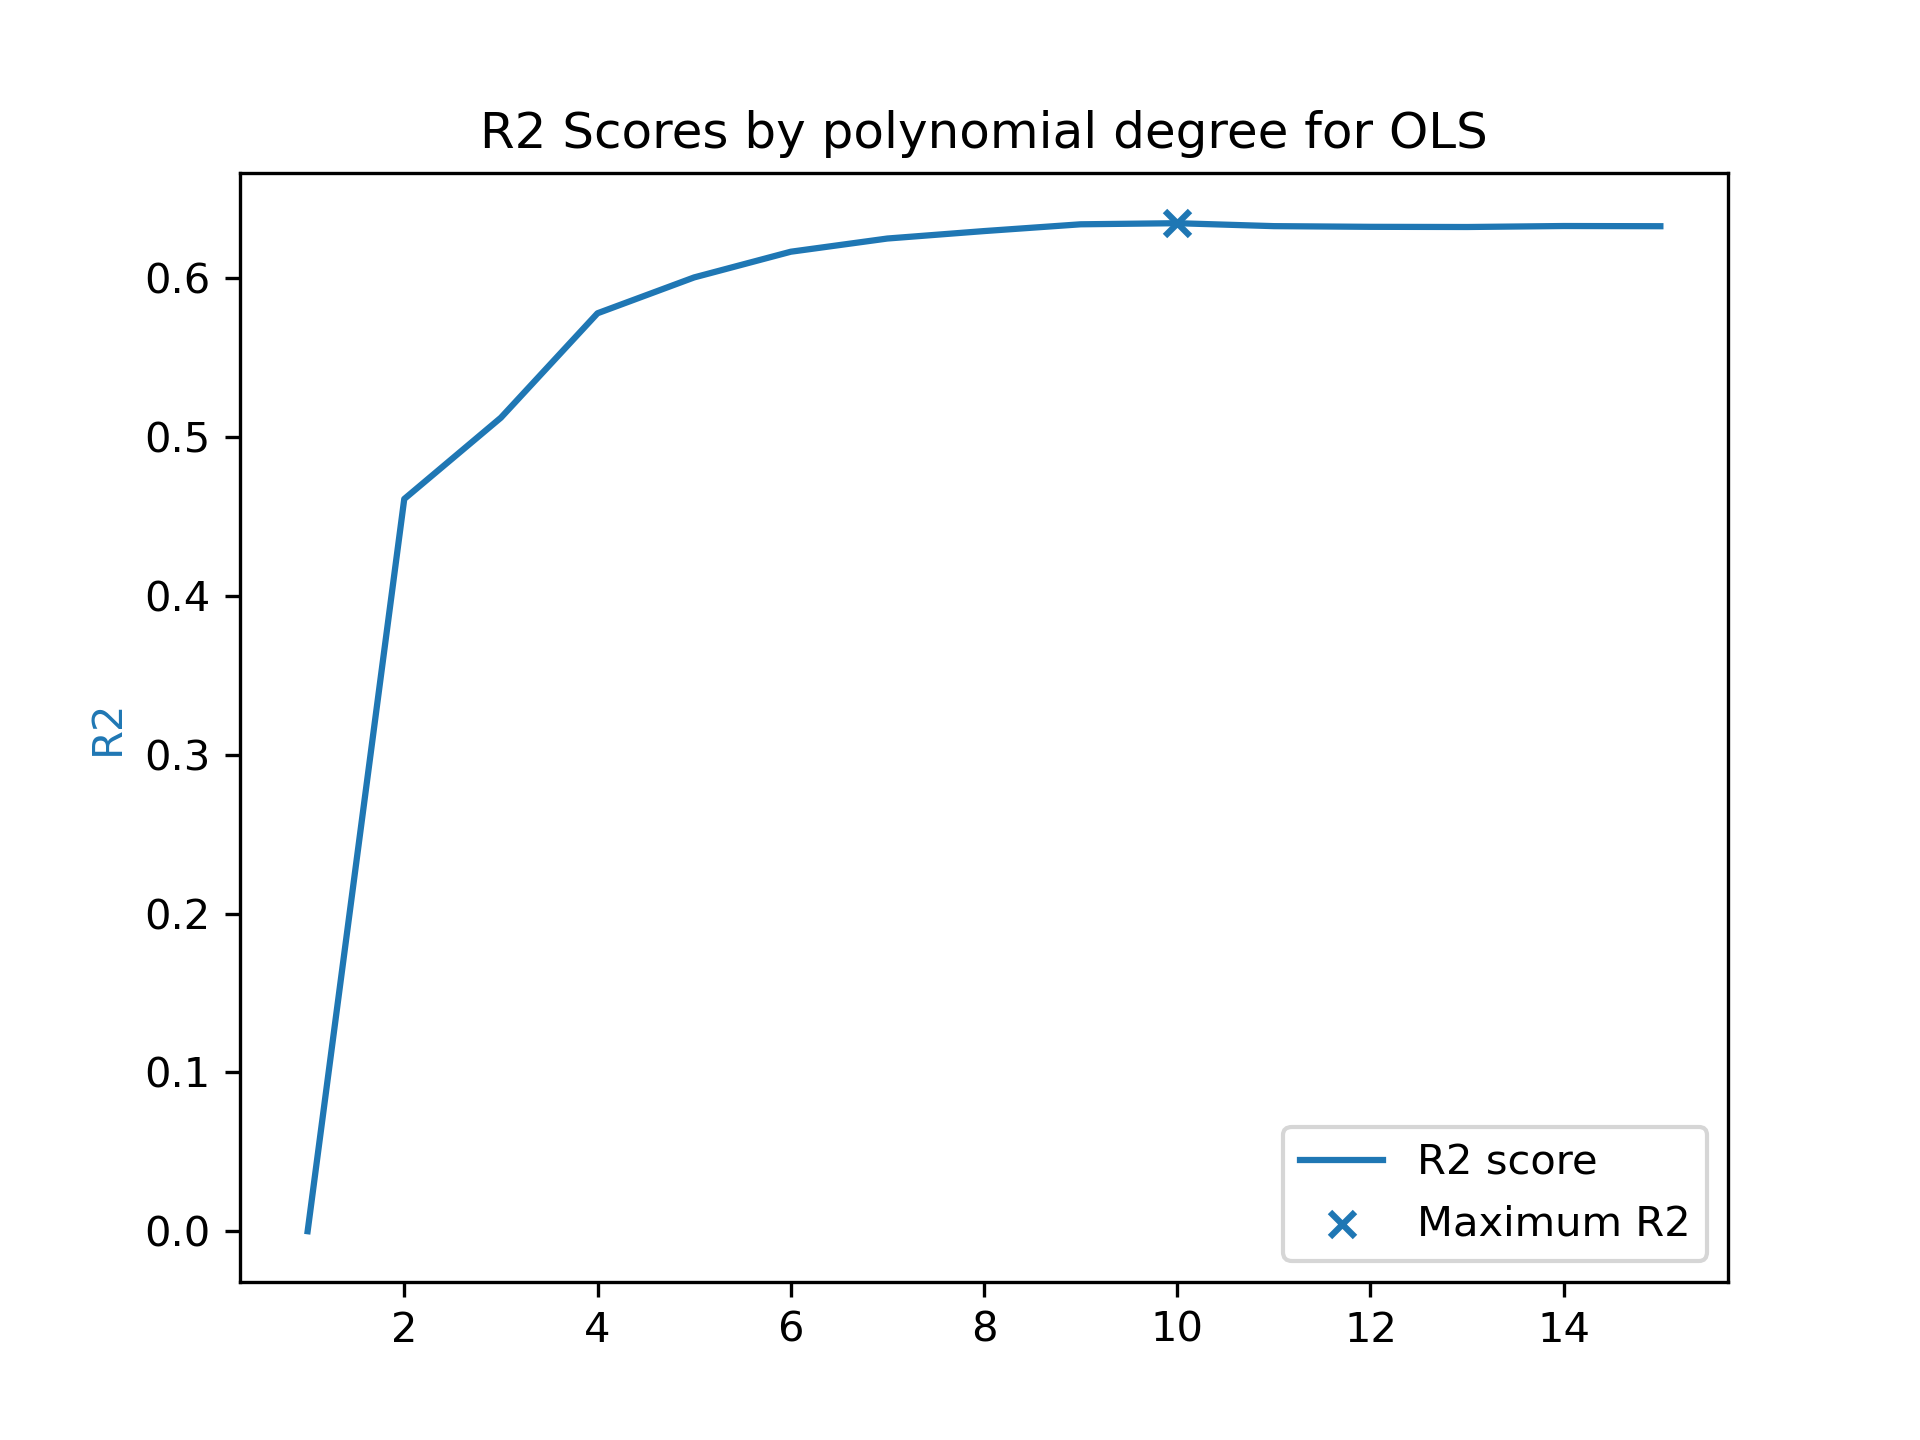
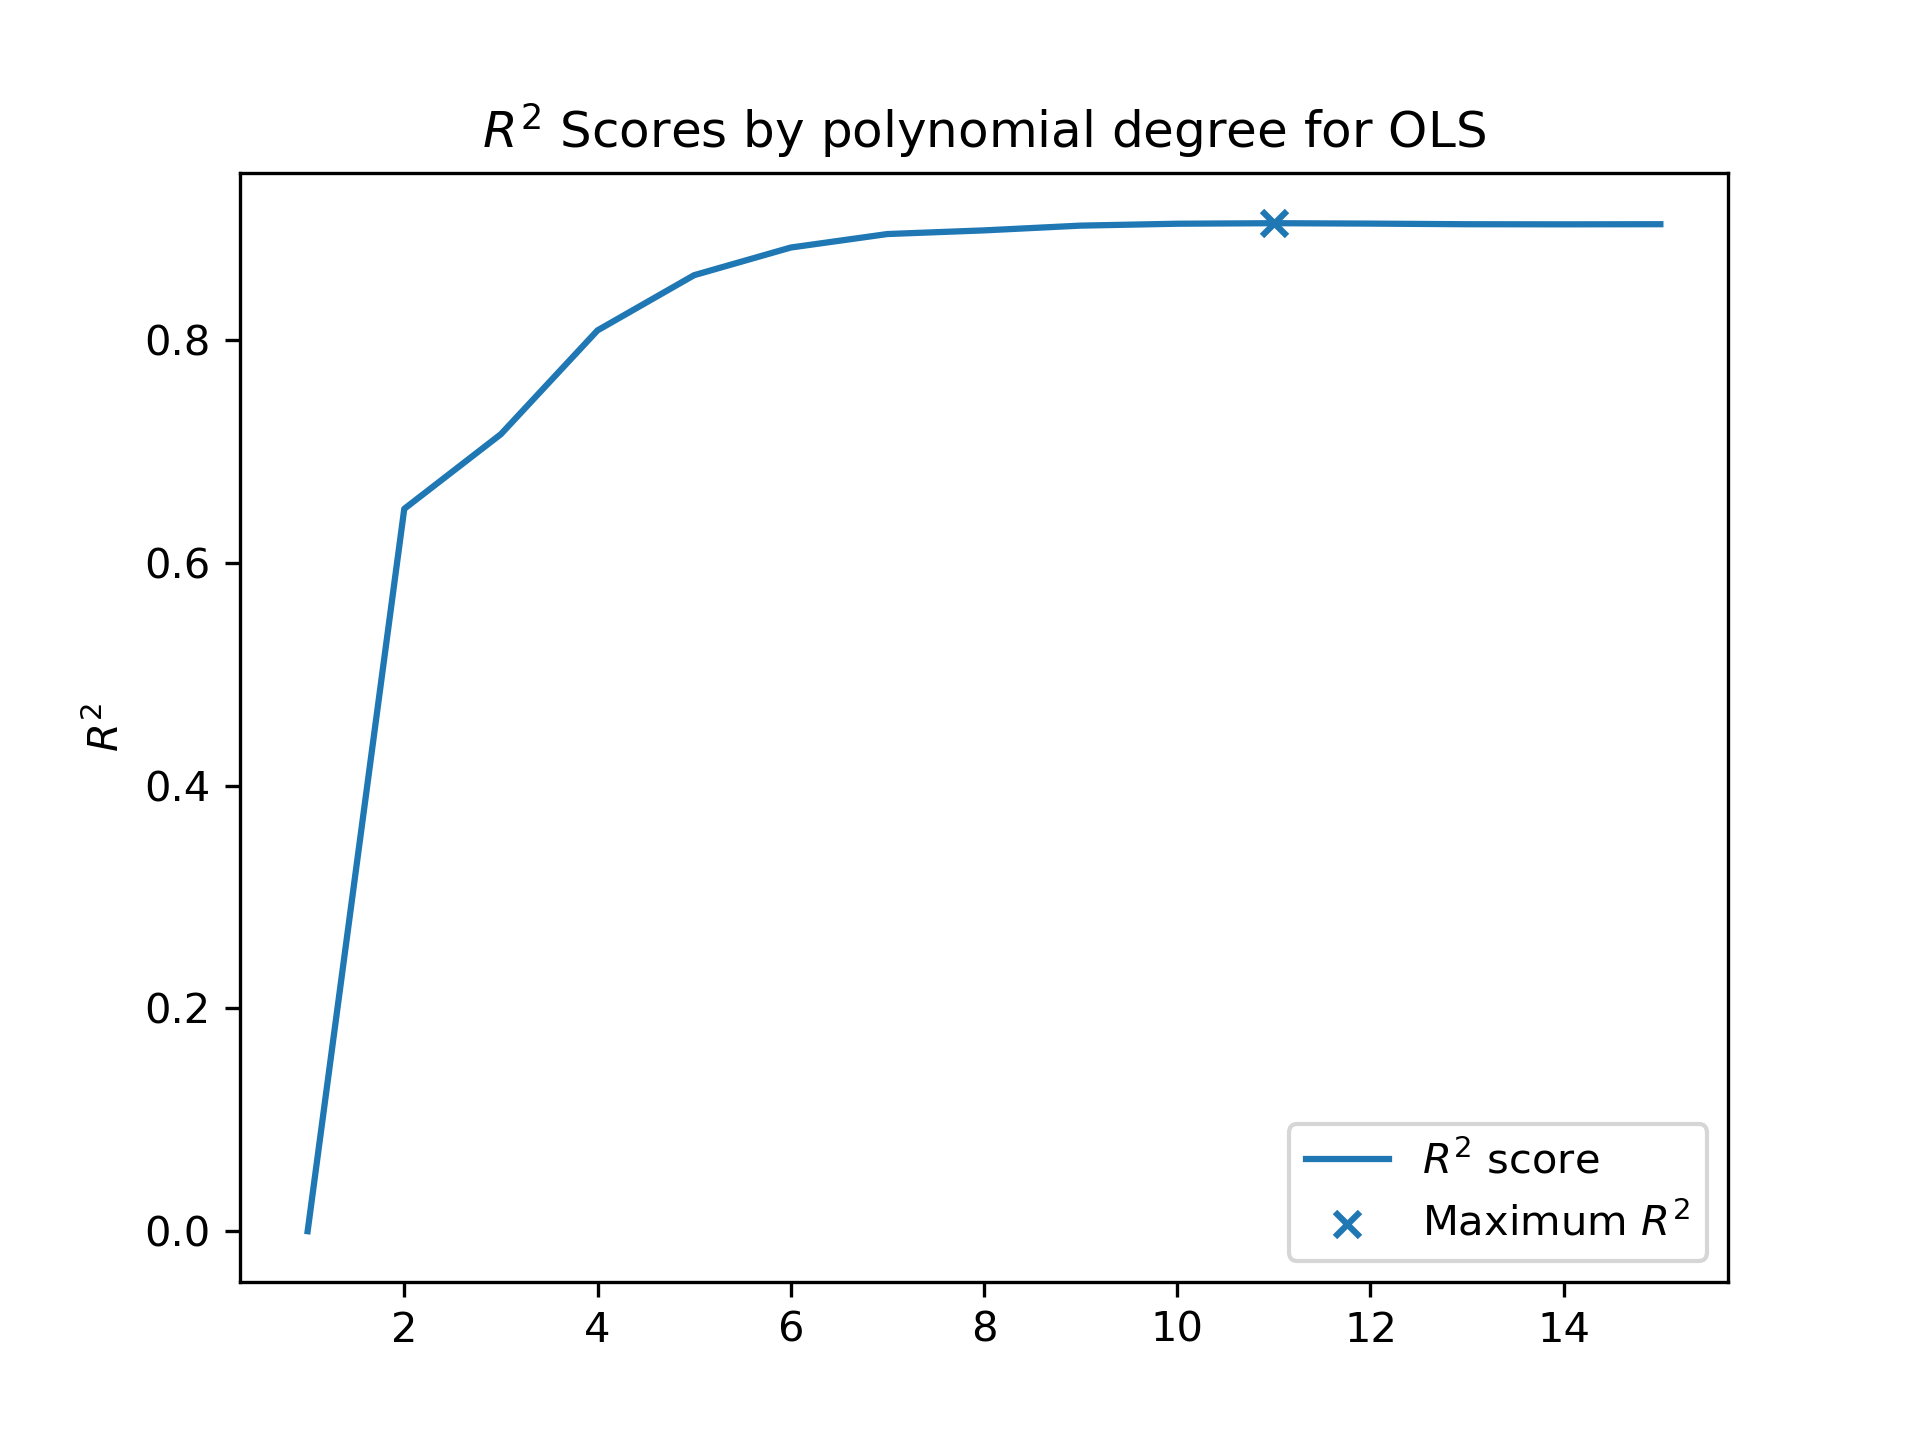
Plotting for franke with and without noise

diff --git a/Project1/src/PolynomialLinearRegression.py b/Project1/src/PolynomialLinearRegression.py
@@ -3,9 +3,11 @@ import numpy as np
 
 from sklearn.model_selection import train_test_split
 from pathlib import Path
+from matplotlib import cm
+from matplotlib.ticker import LinearLocator, FormatStrFormatter
 
 
-np.random.seed(2114)
+np.random.seed(14)
 
 
 class PolynomialLinearRegression:
@@ -59,7 +61,7 @@ class PolynomialLinearRegression:
             self.y_test,
             self.z_train,
             self.z_test,
-        ) = train_test_split(self.x_, self.y_, self.z_)
+        ) = train_test_split(self.x_, self.y_, self.z_, test_size=0.2)
 
     def generate_data(
         self, N: int, alph: float = 0.2
@@ -72,15 +74,17 @@ class PolynomialLinearRegression:
         returns:
             x, y, z
         """
-        x_ = np.random.uniform(0, 1, N)
-        y_ = np.random.uniform(0, 1, N)
+        x_ = np.sort(np.random.uniform(0, 1, N))
+        y_ = np.sort(np.random.uniform(0, 1, N))
 
-        x, y = np.meshgrid(x_, y_)
-        x = x.flatten().reshape(-1, 1)
-        y = y.flatten().reshape(-1, 1)
+        self.x_raw, self.y_raw = np.meshgrid(x_, y_)
+        x = self.x_raw.flatten().reshape(-1, 1)
+        y = self.y_raw.flatten().reshape(-1, 1)
 
-        z = self.FrankeFunction(x, y) + alph * np.random.randn(N * N).reshape(-1, 1)
-        z = z.flatten().reshape(-1, 1)
+        self.z_raw = self.FrankeFunction(self.x_raw, self.y_raw)
+        self.z_noise = self.z_raw + alph * np.random.randn(N, N)
+
+        z = self.z_noise.flatten().reshape(-1, 1)
 
         return x, y, z
 
@@ -194,18 +198,14 @@ class PolynomialLinearRegression:
             methodname: (str)
                 Name of method used to generate values
         """
-
-        # fig, ax1 = plt.subplots()
-
         xVals = [i + 1 for i in range(self.maxDim)]
 
         color = "tab:red"
         plt.xlabel("Polynomial degree")
         plt.xticks(xVals)
-        plt.ylabel("MSE score", color=color)
+        plt.ylabel("MSE score")
         plt.plot(xVals, MSEs_train, label="MSE train", color="r")
         plt.plot(xVals, MSEs_test, label="MSE test", color="g")
-        # plt.tick_params(axis="y", labelcolor=color)
 
         minTestMSE = np.argmin(MSEs_test)
         plt.scatter(
@@ -224,15 +224,14 @@ class PolynomialLinearRegression:
         plt.clf()
 
         color = "tab:blue"
-        plt.ylabel("R2", color=color)
-        plt.plot(xVals, R2s, label="R2 score", color=color)
-        # plt.tick_params(axis="y", labelcolor=color)
+        plt.ylabel("$R^2$")
+        plt.plot(xVals, R2s, label="$R^2$ score", color=color)
 
         maxR2 = np.argmax(R2s)
-        plt.scatter(maxR2 + 1, R2s[maxR2], marker="x", label="Maximum R2")
+        plt.scatter(maxR2 + 1, R2s[maxR2], marker="x", label="Maximum $R^2$")
 
         plt.legend()
-        plt.title(f"R2 Scores by polynomial degree for {methodname}")
+        plt.title(f"$R^2$ Scores by polynomial degree for {methodname}")
 
         if self.savePlots:
             plt.savefig(self.figs / f"{methodname}_{self.maxDim}_R2.png", dpi=300)
@@ -265,7 +264,59 @@ class PolynomialLinearRegression:
         self.plotBeta(betas, methodname)
         self.plotScores(MSETrain, MSETest, R2Scores, methodname)
 
+    def plotFranke(self):
+        fig = plt.figure(figsize=plt.figaspect(0.5))
+
+        ax = fig.add_subplot(1, 2, 1, projection="3d")
+        surf = ax.plot_surface(
+            self.x_raw,
+            self.y_raw,
+            self.z_raw,
+            cmap=cm.coolwarm,
+            linewidth=0,
+            antialiased=False,
+        )
+
+        # Customize the z axis.
+        ax.set_zlim(-0.10, 1.40)
+        ax.zaxis.set_major_locator(LinearLocator(10))
+        ax.zaxis.set_major_formatter(FormatStrFormatter("%.02f"))
+        ax.set_title("No noise")
+
+        # Add a color bar which maps values to colors.
+        fig.colorbar(surf, shrink=0.5, aspect=10)
+
+        ax = fig.add_subplot(1, 2, 2, projection="3d")
+        surf = ax.plot_surface(
+            self.x_raw,
+            self.y_raw,
+            self.z_noise,
+            cmap=cm.coolwarm,
+            linewidth=0,
+            antialiased=False,
+        )
+
+        # Customize the z axis.
+        ax.set_zlim(-0.10, 1.40)
+        ax.zaxis.set_major_locator(LinearLocator(10))
+        ax.zaxis.set_major_formatter(FormatStrFormatter("%.02f"))
+        ax.set_title("With noise")
+
+        # Add a color bar which maps values to colors.
+        fig.colorbar(surf, shrink=0.5, aspect=10)
+
+        fig.suptitle("Frankes function")
+
+        plt.tight_layout()
+
+        if self.savePlots:
+            plt.savefig(self.figs / "FrankesFunction.png", dpi=300)
+        if self.showPlots:
+            plt.show()
+        plt.clf()
+
 
 if __name__ == "__main__":
-    PLR = PolynomialLinearRegression(100, 0.2, 5)
+    PLR = PolynomialLinearRegression(75, 0.1, 15)
+    PLR.plotFranke()
     PLR.OLS()
